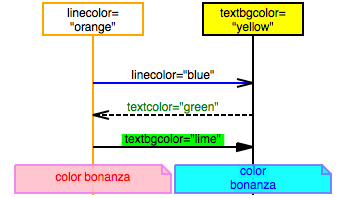
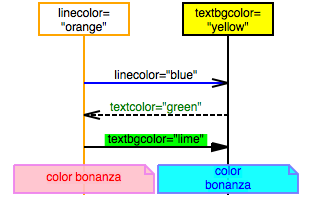
Update tutorial (+= svg)

diff --git a/wikum/tutorial.html b/wikum/tutorial.html
@@ -70,7 +70,7 @@ along with mscgen_js.  If not, see <http://www.gnu.org/licenses/>.
 <pre class="code msgenny">
 a -> b;
 </pre>
-<img alt="tut01" src="tutorial/tut01.png">
+<img alt="tut01" src="tutorial/tut01.svg">
 <p>As you can see this creates two entities (a and b), both with a lifeline, and an arrow from the first to the second lifeline.</p>
             
 
@@ -81,7 +81,7 @@ a -> b: "ping";
 </pre>            
 
 
-<img id="tut02" src="tutorial/tut02.png" alt="tut02">
+<img id="tut02" src="tutorial/tut02.svg" alt="tut02">
 
 <p class="info">Note: when your description doesn't contain a <code>,</code> or a <code>;</code>
 it is possible to leave the quotes out of the label, so in this case 
@@ -93,7 +93,7 @@ it is possible to leave the quotes out of the label, so in this case
 a -> b: ping;
 b >> a: heard ya!;
 </pre>                        
-<img id="tut03" src="tutorial/tut03.png" alt="tut03">
+<img id="tut03" src="tutorial/tut03.svg" alt="tut03">
 <p>There is a plethora of arcs (arrows, lines) at your disposal. We've thrown
 a small cheat sheet together that sums up the basic ones 
 (<a href="tutorial/test14_cheat_sheet.svg" target="_blank">svg</a>, 
@@ -108,14 +108,14 @@ a -> b: ping;
 b >> a: heard ya!;
 a note a: we're not done yet ...;
 </pre>                        
-<img id="tut04" src="tutorial/tut04.png" alt="tut04">
+<img id="tut04" src="tutorial/tut04.svg" alt="tut04">
 
 <h3 id="multiline-text">Multiline text</h3>
 <pre class="code msgenny">
 a note b: This is a note consisting of\ntwo lines of text;
 b => c  : Breaking text in two\nalso works for arcs;
 </pre>                        
-<img id="tut05" src="tutorial/tut05.png" alt="tut05">
+<img id="tut05" src="tutorial/tut05.svg" alt="tut05">
 
 <h3 id="empty-rows-omitted-rows-comments">Empty rows, omitted rows, comments</h3>
 <p>Sometimes your chart needs some more space between arcs, e.g. to emphasise grouping.</p>
@@ -126,7 +126,7 @@ b >>  a: done;
 a => c : "b is done doing something;\ngo bother him";
 c -> b : bother;
 </pre>                        
-<img id="tut06" src="tutorial/tut06.png" alt="tut06">
+<img id="tut06" src="tutorial/tut06.svg" alt="tut06">
 
 <p>To indicate you deliberately left out stuff of your chart, you can use ellipses, like this:</p>
  <pre class="code msgenny">
@@ -136,7 +136,7 @@ c -x b : Whaaat?;
 ...    : magic happens here;
 b >> a : Magic answer;
 </pre>
-<img id="tut07" src="tutorial/tut07.png" alt="tut07">
+<img id="tut07" src="tutorial/tut07.svg" alt="tut07">
 
 <p>To demarcate more strongly and/ or to comment on a part, use <em>comment</em> (---), like so:</p>
  <pre class="code msgenny">
@@ -146,7 +146,7 @@ b => "text to\nspeach": getAudio (line);
 "text to\nspeach" >> b: lAudioStream;
 b -> speaker: play(lAudioStream);
 </pre>
-<img id="tut08" src="tutorial/tut08.png" alt="tut08">
+<img id="tut08" src="tutorial/tut08.svg" alt="tut08">
 
 <h3 id="ignore-this">Ignore this</h3>
 <p>In your program lines starting with <code>#</code> or <code>//</code> 
@@ -156,7 +156,7 @@ b -> speaker: play(lAudioStream);
 a =>> b: what's happening here? ; /* honestly don't know */
 // ignored line
 </pre>                        
-<img id="tut09" src="tutorial/tut09.png" alt="tut09">
+<img id="tut09" src="tutorial/tut09.svg" alt="tut09">
 <p class="warning">Caveat: on translating to mscgen all ignorable text get lost.</p>
 
 <h2 id="advanced-stuff">Advanced stuff</h2>
@@ -170,7 +170,7 @@ client => server : SYN;
 server => client : SYN + ACK;
 client => server : ACK;
 </pre>                        
-<img id="tut10" src="tutorial/tut10.png" alt="tut10">
+<img id="tut10" src="tutorial/tut10.svg" alt="tut10">
 
 <p><em>hscale</em> horizontally scales the chart a bit. Numbers bigger than 1 enlarge 
 it; smaller than 1 shrink it.</p>
@@ -181,7 +181,7 @@ client => server : SYN;
 server => client : SYN + ACK;
 client => server : ACK;
 </pre>
-<img id="tut11" src="tutorial/tut11.png" alt="tut11">
+<img id="tut11" src="tutorial/tut11.svg" alt="tut11">
 
 <p>... and <em>width</em> scales the whole chart so it fits in exactly the amount of pixels width.</p>
 <pre class="code msgenny">
@@ -191,7 +191,7 @@ client => server : SYN;
 server => client : SYN + ACK;
 client => server : ACK;
 </pre>
-<img id="tut12" src="tutorial/tut12.png" alt="tut12">
+<img id="tut12" src="tutorial/tut12.svg" alt="tut12">
 
 <h3 id="naming-entities-explicit-order">Explicit entity declarations: labeling entities, use your own order</h3>
 <p>To prevent you from having to enter long entity names in each line, you can explicitly 
@@ -204,14 +204,14 @@ fe => be: "getToken\n(id, secret)";
 fe << be: [OK] token;
 A << fe: Whoop!;
 </pre>
-<img id="tut14" src="tutorial/tut14.png" alt="tut14">
+<img id="tut14" src="tutorial/tut14.svg" alt="tut14">
 
 <p>The msgenny parser puts the entities in the order they occur in your script, e.g. </p>
 <pre class="code msgenny">
 1 =>> 4;
 3 >> 2;
 </pre>
-<img id="tut15" src="tutorial/tut15.png" alt="tut15">
+<img id="tut15" src="tutorial/tut15.svg" alt="tut15">
 
 <p>If that's not what you want, declare them in the order you want them to appear:</p>
 <pre class="code msgenny">
@@ -220,7 +220,7 @@ A << fe: Whoop!;
 1 =>> 4;
 3 >> 2;
 </pre>
-<img id="tut16" src="tutorial/tut16.png" alt="tut16">
+<img id="tut16" src="tutorial/tut16.svg" alt="tut16">
 
 <h3 id="broadcasts-parallel-calls">broadcasts, parallel calls</h3>
 <p>When an entity has to send a message to all entities at once (broadcast) use <code>*</code> as entity name. 
@@ -230,7 +230,7 @@ arcgradient="14";
 a, b, c, d;
 b =>> *;
 </pre>                        
-<img id="tut17" src="tutorial/tut17.png" alt="tut17">
+<img id="tut17" src="tutorial/tut17.svg" alt="tut17">
 
 <p>In situations where you want to epress two calls being executed in parallel (or for some
 other reason want to see two arcs on one row), seperat them with a <code>,</code> in stead
@@ -241,7 +241,7 @@ a => b: parallel\nwith c => b,
 c => b: parallel\nwith a => b,
 n note n: a note on\nthe same line;
 </pre>
-<img id="tut18" src="tutorial/tut18.png" alt="tut18">
+<img id="tut18" src="tutorial/tut18.svg" alt="tut18">
 
 <h3 id="both-ways-no-way">Both ways, no way</h3>
 <p>For almost every arc type (<code>-></code>, <code>=></code>, <code>=>></code>, 
@@ -253,7 +253,7 @@ a <<=>> b, b <<>> c;
 a -- b, b .. c;
 a :: b, b <:> c ;
 </pre>
-<img id="tut19" src="tutorial/tut19.png" alt="tut19">
+<img id="tut19" src="tutorial/tut19.svg" alt="tut19">
 
 <h3 id="box-rbox-abox">box, rbox, abox</h3>
 <p>State and condition boxes are part of the origin mscgen standard, and hence they're supported in ms genny as well. </p>
@@ -262,7 +262,7 @@ a  box b :  box;
 b abox c : abox;
 c rbox d : rbox;
 </pre>
-<img id="tut20" src="tutorial/tut20.png" alt="tut20">
+<img id="tut20" src="tutorial/tut20.svg" alt="tut20">
 </article>
 <article class="shadow">
 <h2>Using the on line demo</h2>
@@ -286,6 +286,8 @@ c rbox d : rbox;
 <p>textcolor, textbgcolor, linecolor</p>
 <pre class="code mscgen">
 msc {
+hscale="0.9";
+    
 a [label="linecolor=\n\"orange\"", 
    linecolor="orange"],
 b [label="textbgcolor=\n\"yellow\"", 
@@ -307,6 +309,8 @@ b note b  [label="color\nbonanza",
           textcolor="blue"];
 }
 </pre>
+<img id="tut32" src="tutorial/tut32.svg" alt="tut32">
+
 <h3> coloring everyting departing from a lifeline</h3>
 <pre class="code mscgen">
 msc {
@@ -336,7 +340,7 @@ hscale="0.6";
   ui =>> ui [label="render"];
 }
 </pre>
-<img id="tut33" src="tutorial/tut33.png" alt="tut33">
+<img id="tut33" src="tutorial/tut33.svg" alt="tut33">
 
 <h3> arcskip</h3>
 <h3> id, url, idurl</h3>
